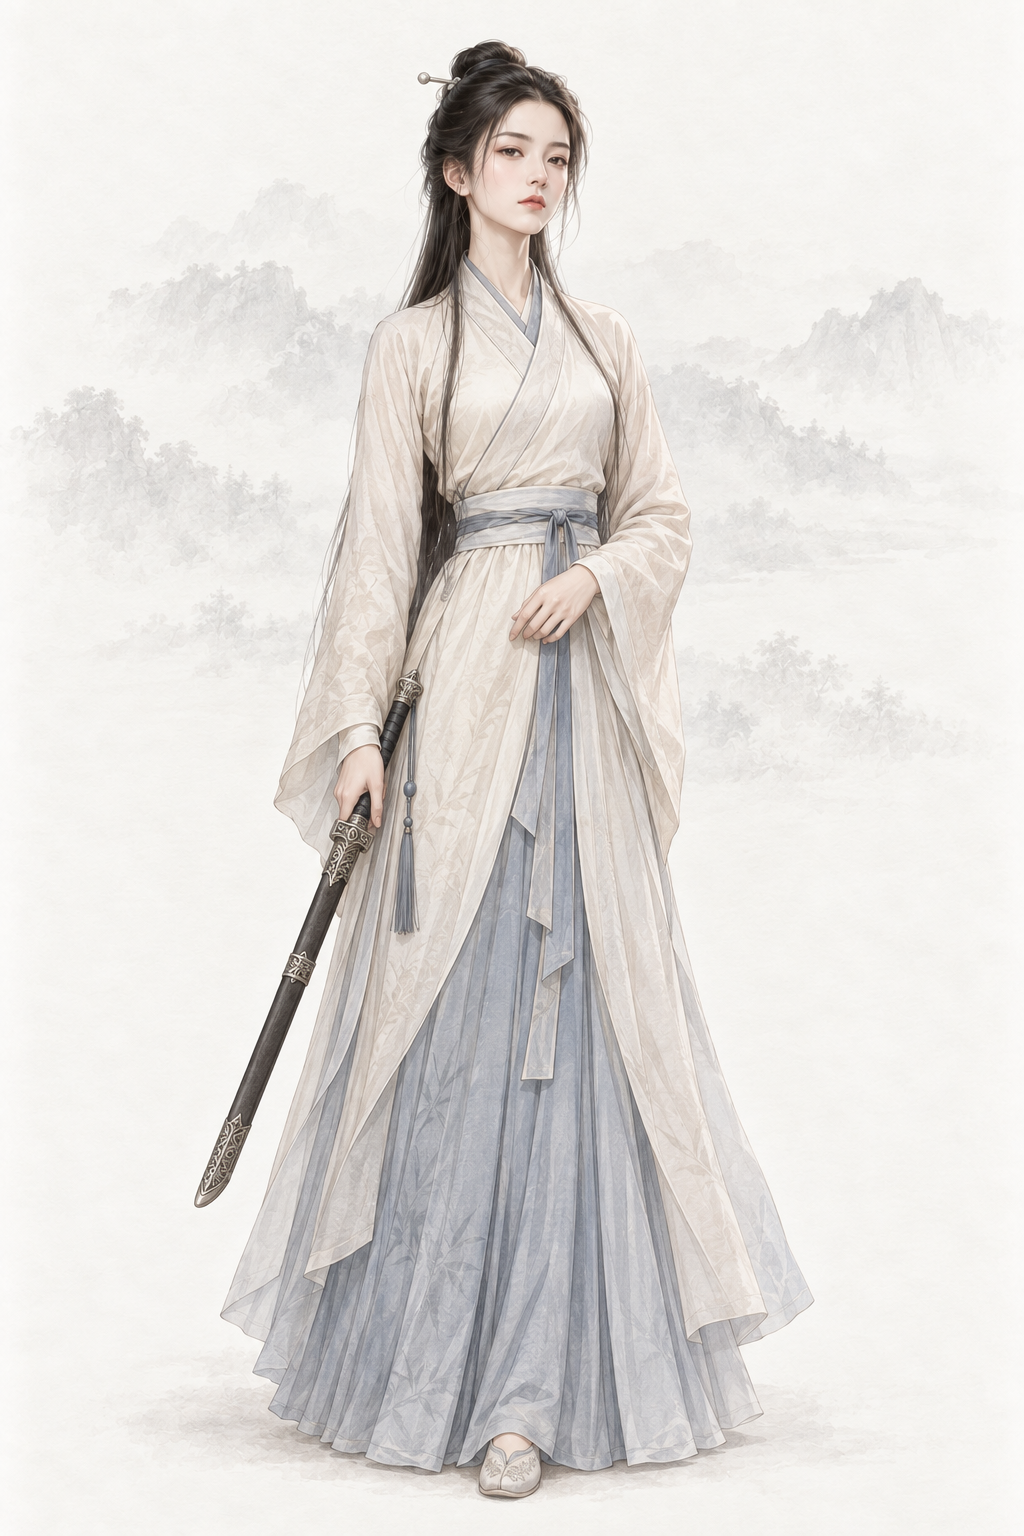
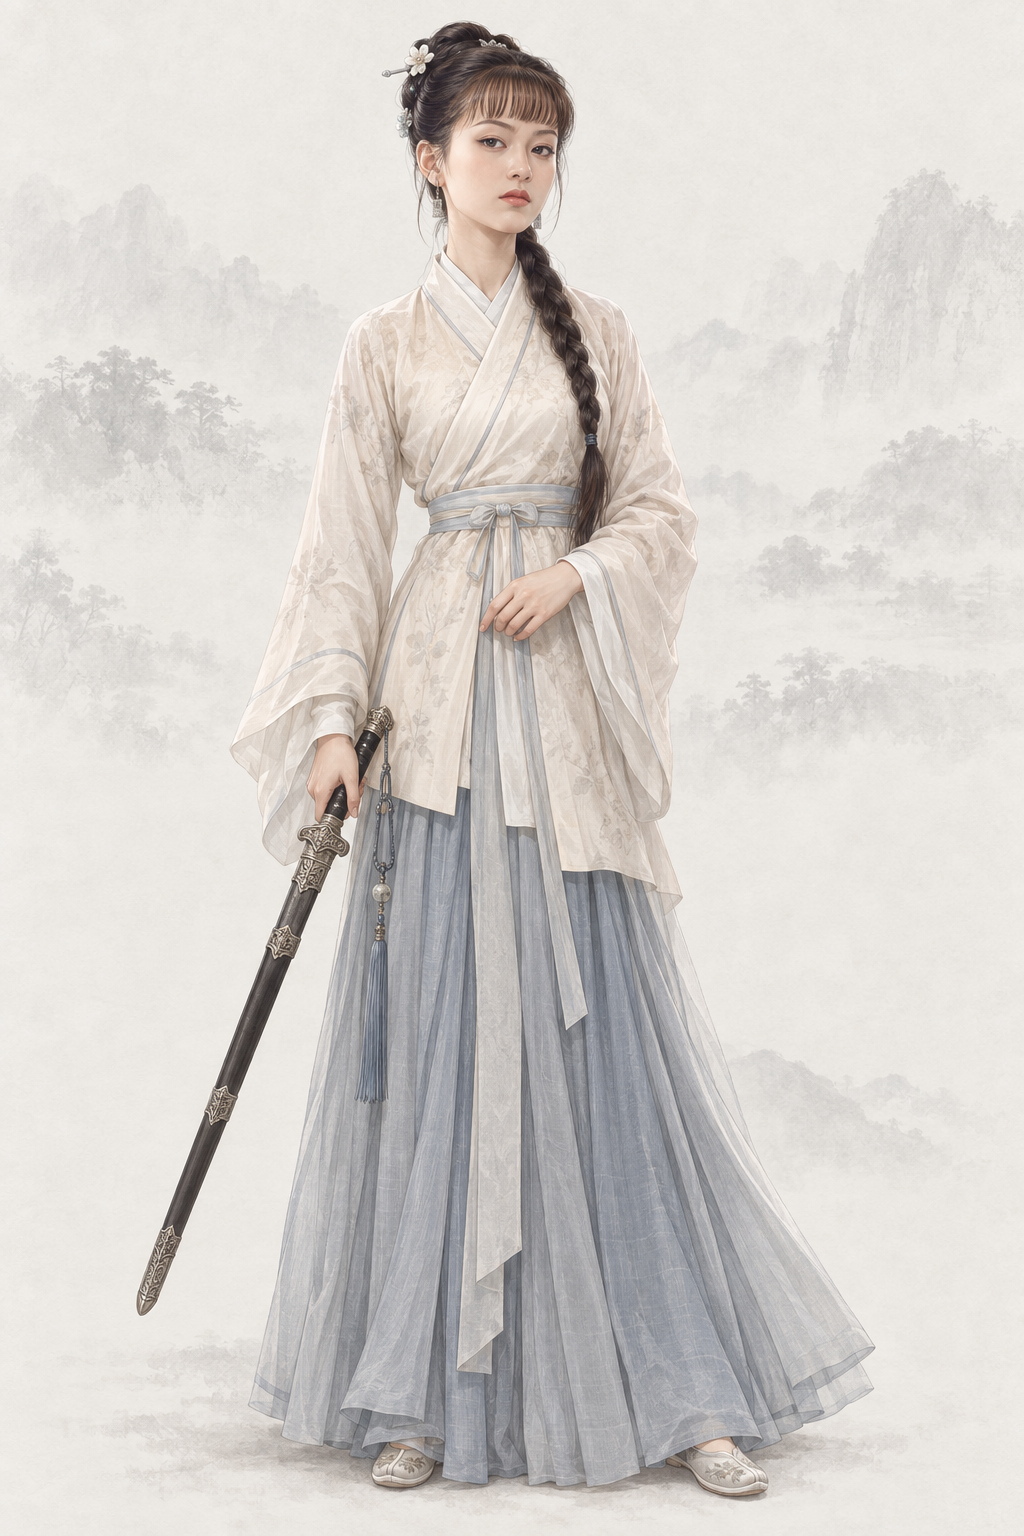
assets(character): por_npc_ake__ch08_youth_base 阿珂（codex · AR-32 经典剧照重出）
1998 年 TVB《鹿鼎记》剧照 1 张 + 基线；提示词写回「## Gemini 提示词」，上一版留作历史，frontmatter 加 classic_ref。

diff --git a/assets/default/prompts/characters/ch08-luding/npc_ake.md b/assets/default/prompts/characters/ch08-luding/npc_ake.md
@@ -17,15 +17,42 @@ references:
   use: 第三参考仅背景：极浅低对比水墨远山、暖浅灰纸底、薄雾与留白；已实际view。完全忽略其中王语嫣面孔、倾头转身、女性体态、白青薄纱裙装、发饰与飘带；墨痕纸纹不得侵入阿珂的人体衣物或器物。
 status: redo
 redo_reason: "旧图以 1998 年剧集剧照为面部身份参考生成，有复刻真人面容的风险（本轮口径禁止）；齐刘海是剧集造型，容貌也撑不起“陈圆圆之女、天下绝色”，且与陈圆圆不像母女。按与陈圆圆相同的五官文字重画。"
-reference_upload:
-- assets/default/baseline/character/female/ref_npc_wangyuyan__ch01_base01.png
 realism_revision: user_identity_pose_20261001
 codex_prompt_rev: 2026-10-02
+classic_ref:
+  version: "1998 年 TVB《鹿鼎记》"
+  stills:
+  - ".agents/coord/imagegen-reference/identity-20261001/luding/ake_1998_liangxiaobing.jpg"
+  note: "剧照缩到长边 1024 的 JPEG 上传，放在两张同性别基线之前（AR-32）；ake_1998_liangxiaobing.jpg 裁切框 (0.0, 0.0, 0.72, 1.0)"
+reference_upload:
+- .agents/coord/imagegen-reference/identity-20261001/luding/ake_1998_liangxiaobing.jpg
+- assets/default/baseline/character/female/ref_npc_wangyuyan__ch01_base01.png
+- assets/default/baseline/character/female/ref_npc_xiaolongnv__ch03_base01.png
 ---
 
 # 阿珂 · 人物写实修正
 
 ## Gemini 提示词
+
+> 2026-10-02 AR-32 经典剧照重出（6 号出图员，codex exec · image_gen 出图）：上传该角色经典影视版剧照 1 张（1998 年 TVB《鹿鼎记》：ake_1998_liangxiaobing.jpg）在前、两张同性别基线在后。剧照只借鉴发型、服饰、配色、标志道具、气质与面部特征，重新绘制成项目画风，不照搬照片的构图、光影和姿势；人物一律成年。提示词里不写演员名。上一版提示词保留在下一节作历史。
+
+```text
+生成一张 2:3 竖幅全身人物立绘：单人、单一视角、完整全身——头顶、双手、双脚和手中器物的两端都在画面内，四周留出自然空白；人物站姿自然，身体基本朝向正面，头部端正（不歪头、不仰不俯），镜头平视。
+【参考图】随提示词上传 3 张参考图。第 1 张参考图是该角色经典影视造型的剧照：借鉴其发型、服饰、配色、标志道具、气质和面部特征，让人一眼认出是这个角色；但必须重新绘制成项目画风，不要照片质感，不要照搬剧照的构图、光影、背景和姿势，也不要做成照片修图。剧照与下文文字不一致的地方（年龄、所处阶段、帽饰与衣装细节、手中器物），以下文文字为准；画中人一律是成年人。最后两张是本项目画风基线：画风、用色、光线、质感和暖浅灰纸底加淡水墨背景以它们为准。
+【画风】写实手绘古风人物插画，与本项目写实武侠角色立绘同一画风，像功力深厚的画师用细腻笔触画出的真实美人。手绘插画质感，不是 CG 渲染：不要过度光滑的皮肤、完美对称的五官、塑料高光、过度锐利的发丝；保留自然的笔触和细微不完美。肌肤细腻自然，看得见极细的肤理和自然的左右不对称，不磨皮、不油亮、不打粉；头发是一缕缕自然的发丝和少量碎发；布料看得出经纬纹理、厚薄和自然垂坠的褶皱，干净完整；整体设色低饱和、雅致；柔和的自然光从左上方照来，明暗过渡自然，不打舞台光、轮廓光或美颜柔光。不是照片，不是三维渲染，不是动漫或游戏 CG，也不是油画（没有厚涂笔触和画布纹理）。
+【背景】不透明的暖浅灰色纸底，只在远处有极淡的水墨远山和薄雾，大面积留白；人物与背景明暗分明、轮廓边缘干净完整（后续要自动抠图），水墨和纸纹只在背景里，不侵入人物和衣服；脚下只有很淡的一点接触阴影。
+【人物】阿珂，《鹿鼎记》中陈圆圆与李自成的女儿、独臂神尼九难的弟子，身世揭开前后的时期。
+【年龄与体态】外观约二十岁的成年年轻女子，身材高挑纤秀，成人比例。
+【经典造型】要一眼认出是阿珂——绝色容貌、齐刘海、胸前一条长辫、素银簪、杏色袄灰蓝裙、手握长剑，冷艳骄傲、下巴微扬，美得让人不敢逼视。
+【面容】脸以剧照为底子——保留剧照里这个角色的脸型、眉眼、鼻唇的比例关系和神气，画成成年人；与母亲陈圆圆极为相像的绝美容貌——绝色的鹅蛋脸，下颌线柔美；肌肤白皙细腻（有真实质感，不磨皮）；眉如远山、细长舒展；一双眼尾微垂的美目；鼻梁秀挺、鼻头小巧；樱唇丰润、唇色淡红；但眼神清冷高傲，带着倔强和不耐烦，嘴唇常常紧抿着。冷艳、骄傲、对人爱理不理。
+【发式】额前一排齐整的薄刘海；乌发在头顶挽成简洁的发髻，一支素银簪、两朵小珠花，其余长发编成一条粗长辫垂在胸前。
+【服饰】清初汉族女侠装——浅杏色交领长袄（右衽）、灰蓝长裙、窄袖、平底布鞋。
+【道具与姿态】右手握一柄连鞘长剑，剑斜垂在身侧；左手收在腰前；正面站立，下巴微扬。
+【不要】画面里不要任何文字、题款、印章、签名、水印、台标、边框、分格或多视图；不要第二个人；不要幼态（童颜、娃娃脸、婴儿肥、儿童或少年身材、大头小身）；不要塑料感皮肤、磨皮美颜、网红脸（尖下巴大眼高鼻的模板脸）、过度对称、浓妆、偶像式打光、蜡像感；不要照片质感、三维渲染或动漫大眼；不要歪头、斜镜头；不要多指、缺指（设定的伤残除外）、手与器物粘连或悬空；汉式交领必须右衽（穿着者的左襟压在右襟上），不要左衽（设定为少数民族服制的除外），不要水平镜像；不要现代物品、日式服饰或日本刀、发光特效、法阵或能量光。不要照片或照片修图的质感，不要照搬剧照的构图、光影、背景和姿势，不要剧照里的字幕、台标和水印。不要尼姑装或宫廷公主装；不要网红脸；不要少女幼态。清初汉族女子仍穿明式袄裙：汉式交领一律右衽（穿着者左襟压右襟），不要左衽、不要水平镜像。
+【画风基线】随提示词上传的参考图里，最后两张是本项目的立绘画风基线：只参考它们的画风、用色、光线、质感和暖浅灰纸底加淡水墨的背景处理，整体画风必须与它们一致——精细写实的数字手绘插画，不是油画，不要厚涂笔触和画布纹理。基线图只取画风，不取长相：不要照搬基线图里人物的长相、年龄、发型、服饰和姿势。
+```
+
+## 上一版 Gemini 提示词（2026-10-02 文字版；AR-32 经典剧照重出前，历史，不再用于出图）
 
 > 2026-10-02 Codex 人物线 2 号（AR-31）：在审核组稿上补一行「经典形象」（借鉴公认经典造型的发式、装束、配色、标志道具与气质，只写文字，不写演员名、不上传剧照），并补去 AI 化要求。本轮出图用下面第一个代码块；审核组原稿保留在其后的「审核组原稿」小节作历史。
 
